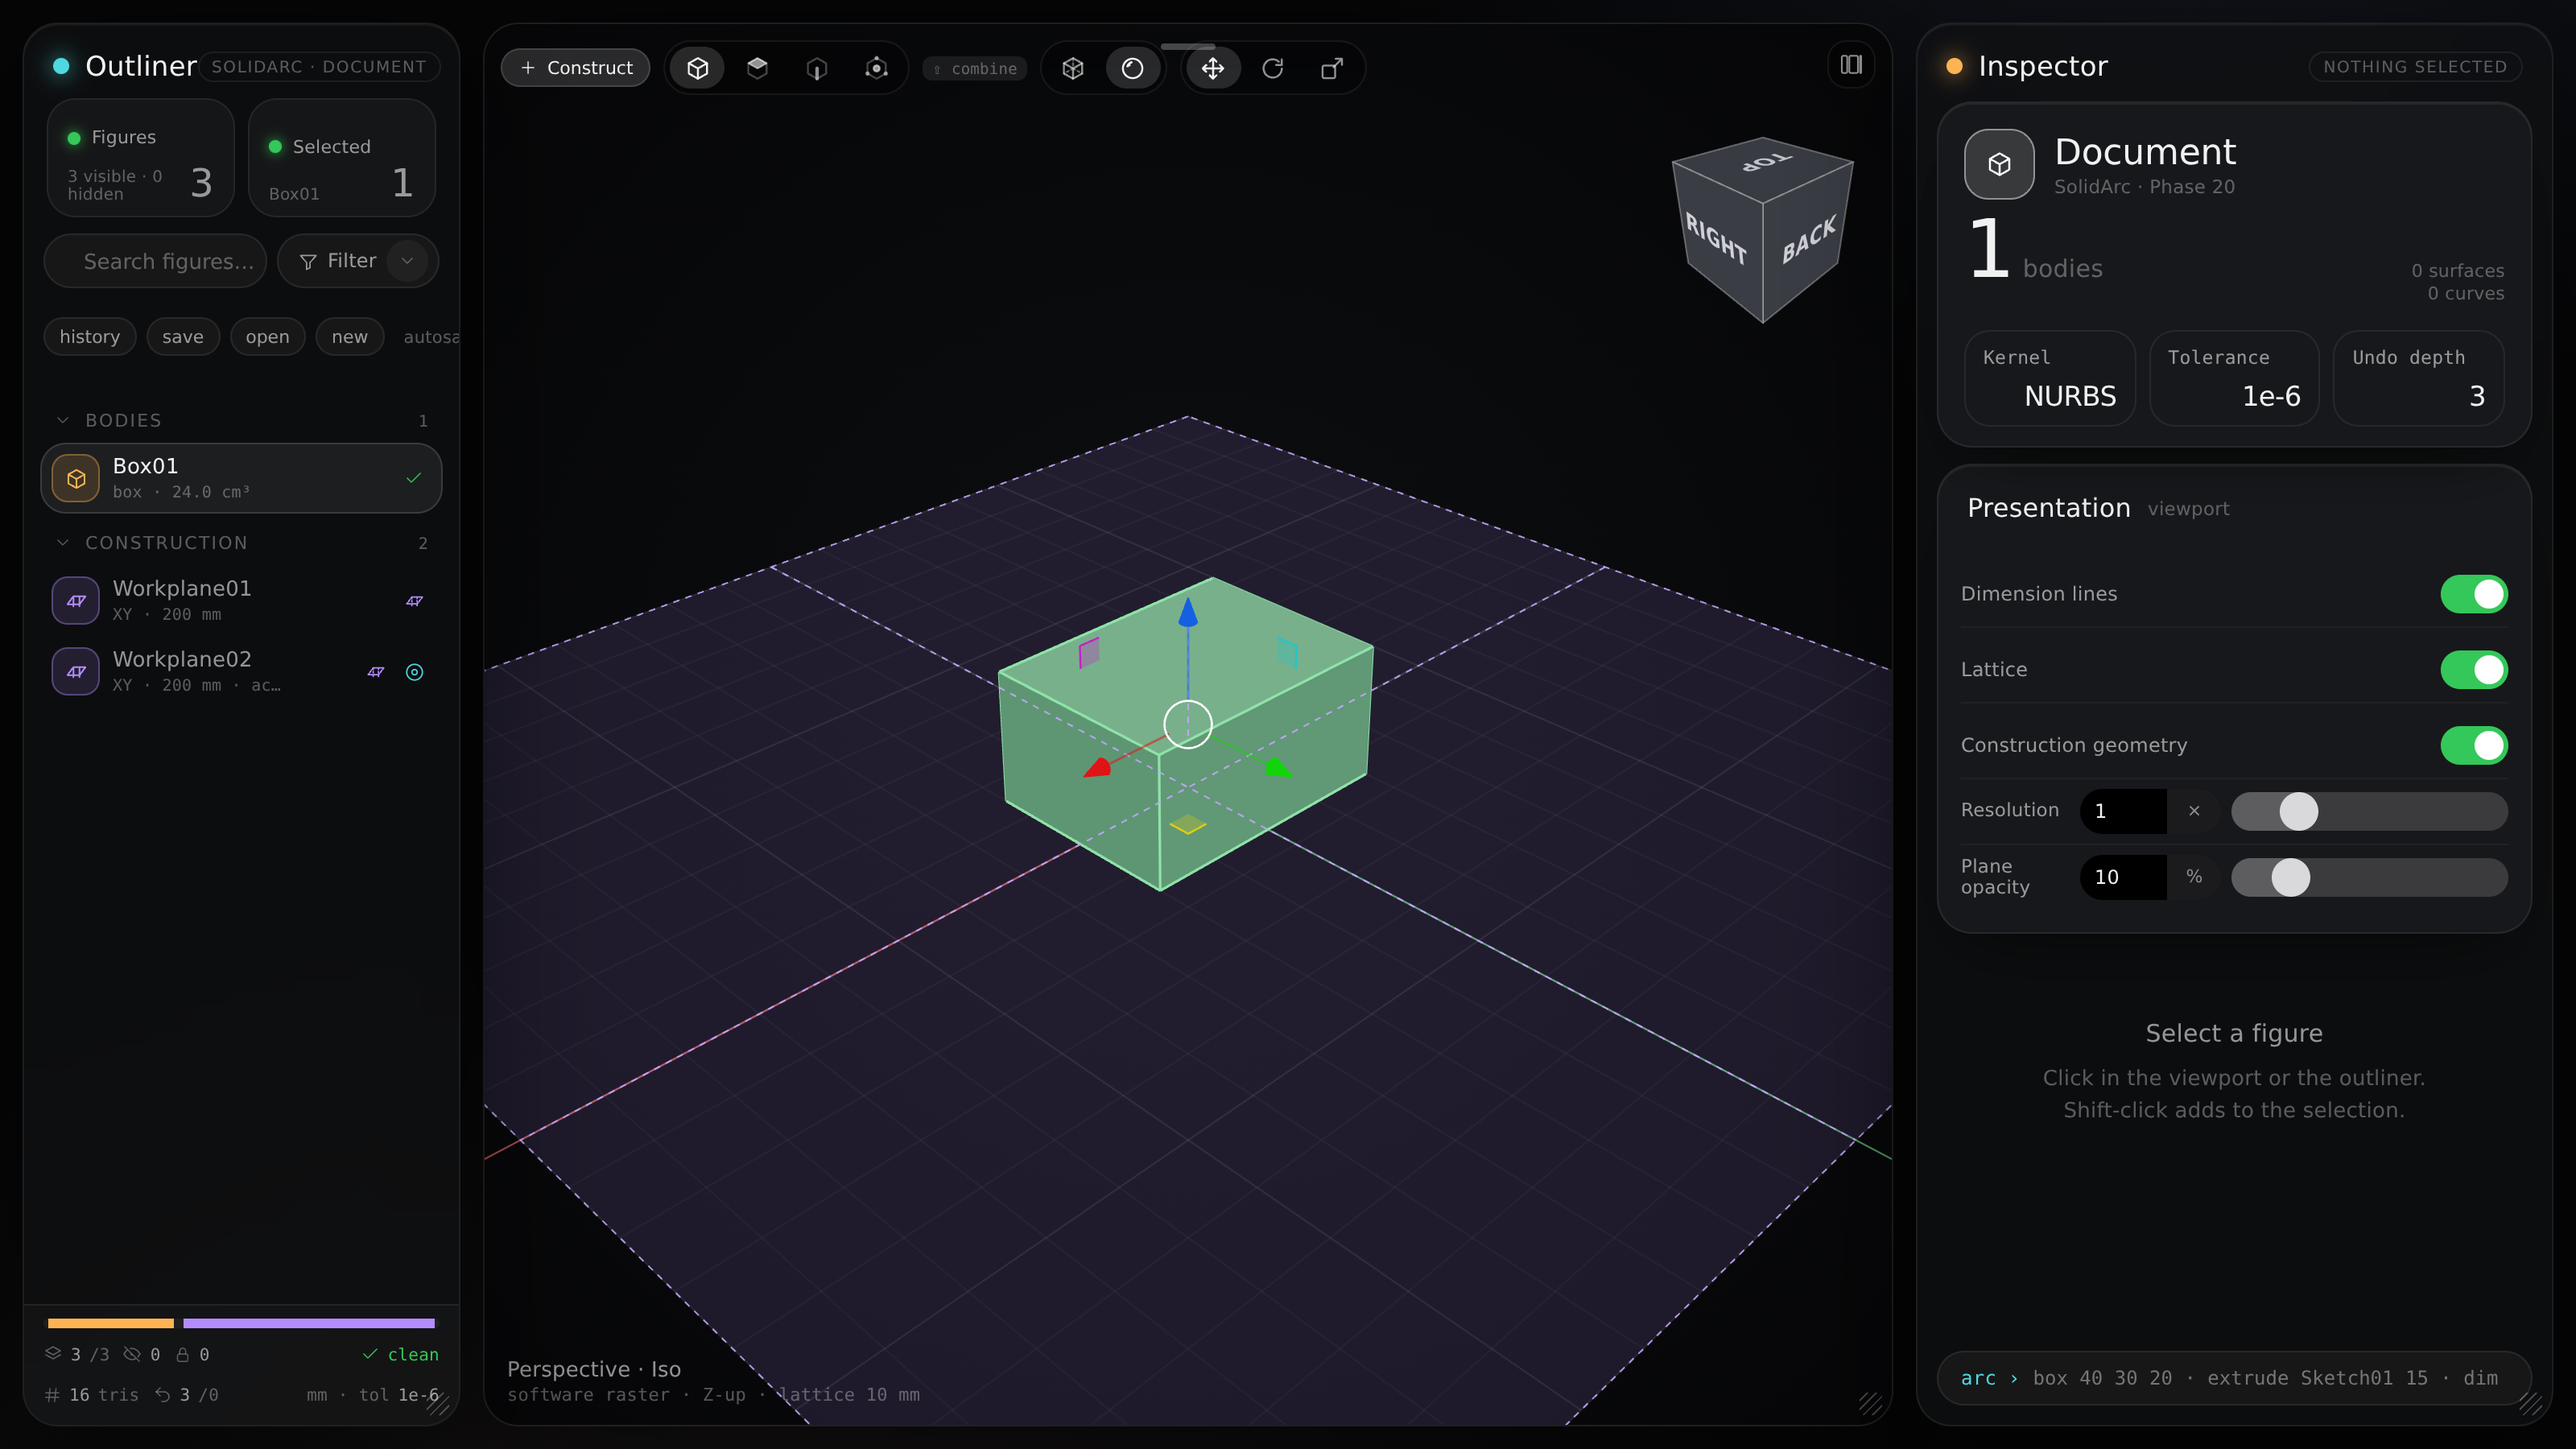
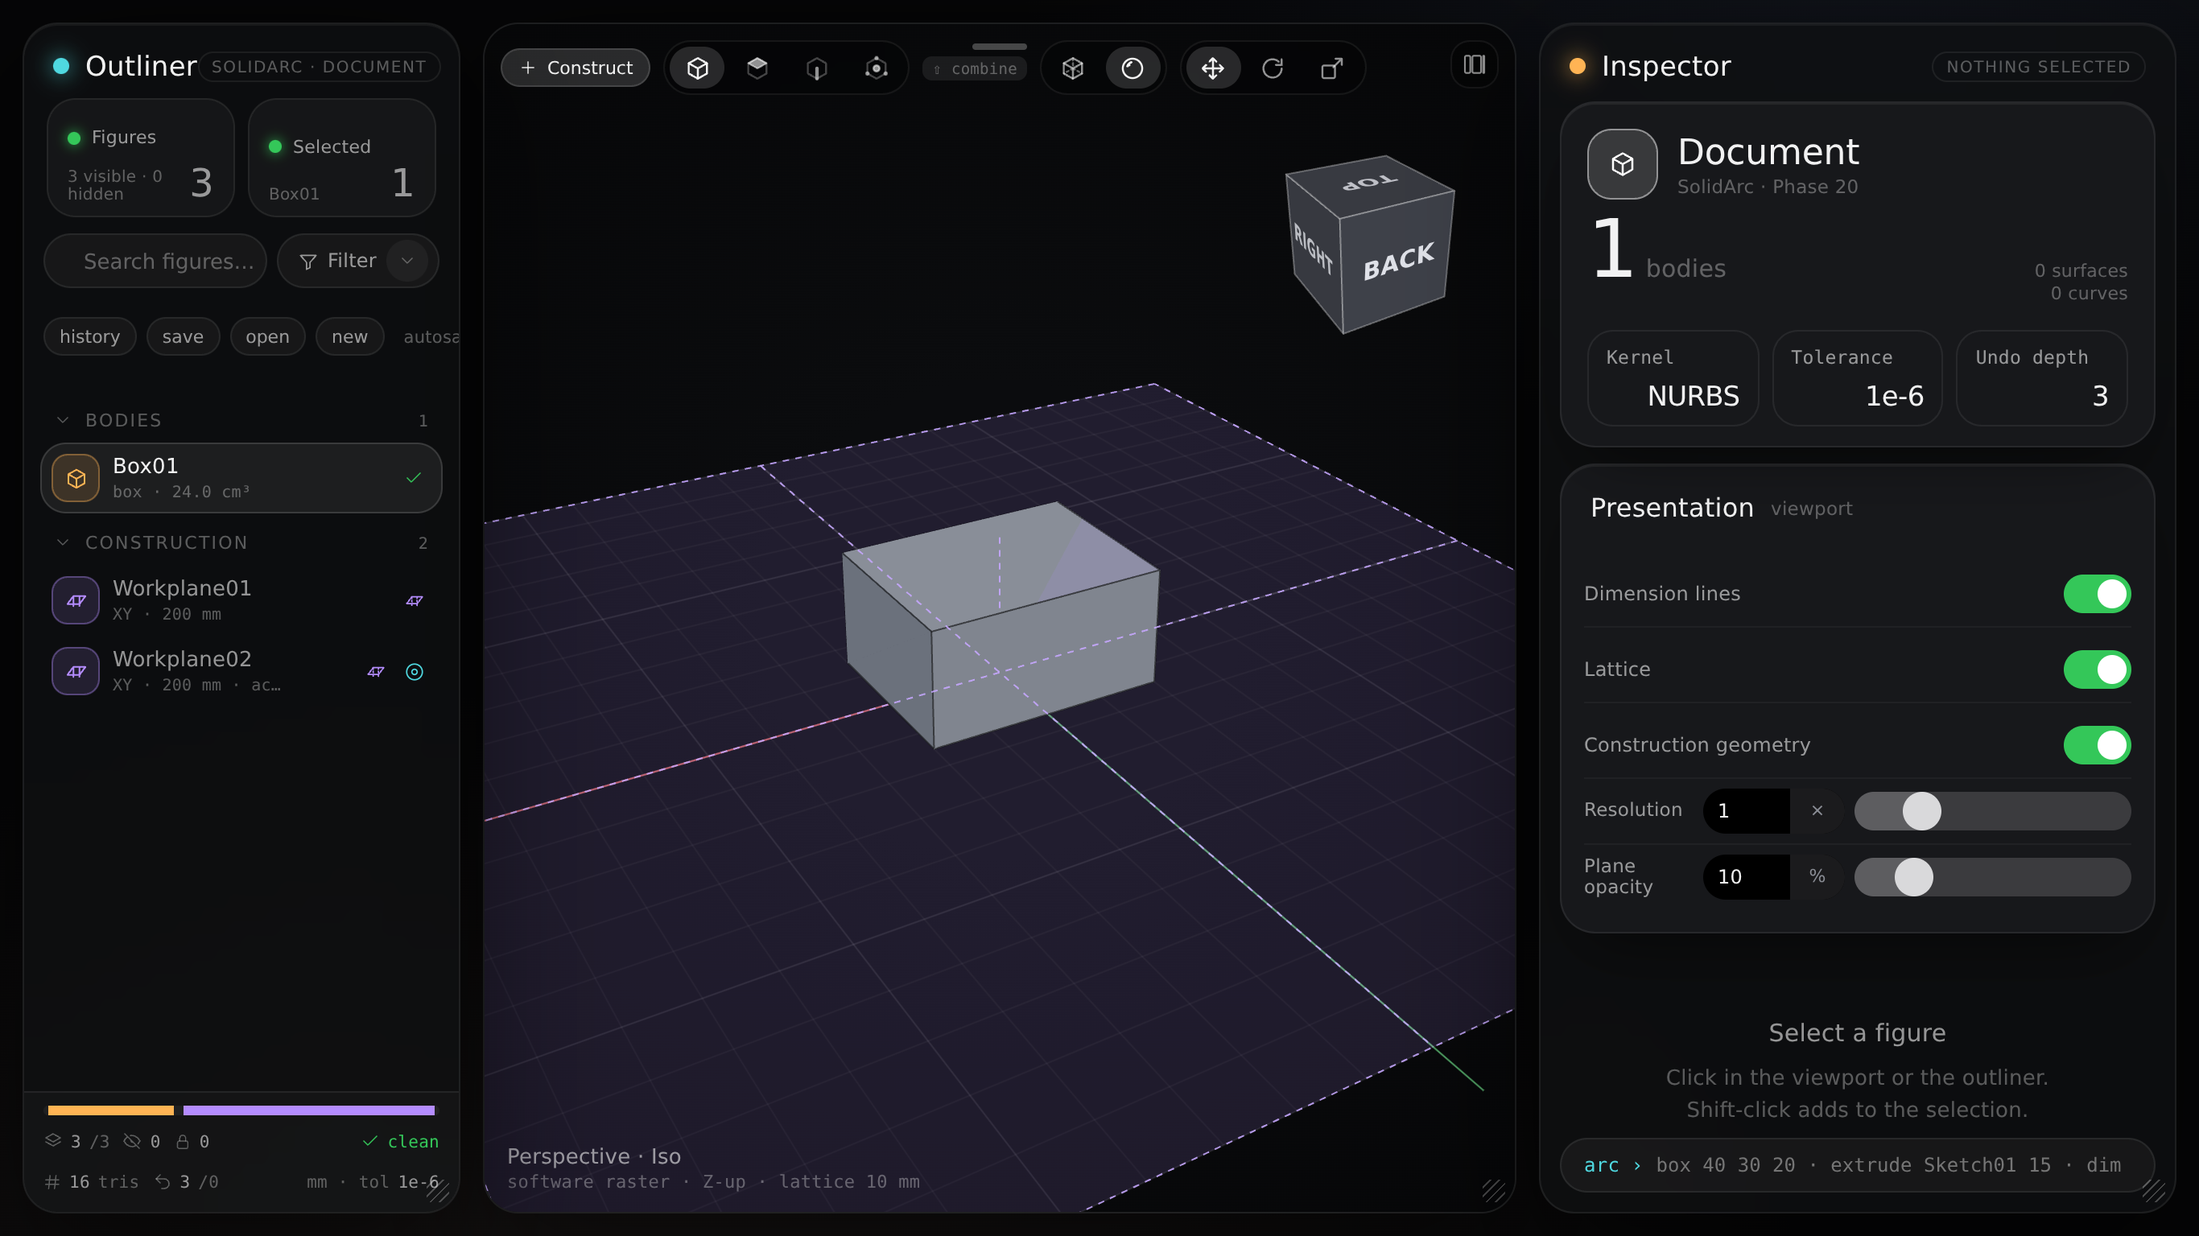
SolidArc: view cube perspective matched to the box in the viewport (same silhouette: top/side proportions)

diff --git a/SolidArcInspectorDesign/solidarc/index.html b/SolidArcInspectorDesign/solidarc/index.html
@@ -608,7 +608,7 @@ svg.i{width:16px;height:16px;fill:none;stroke:currentColor;stroke-width:1.6;stro
 @media (max-width:1500px){#axisHud{top:96px}#gzHud{top:140px}}
 
 /* ══ v12: view cube replaces the XYZ readout, persp pill and the view buttons ══ */
-#vcube{position:absolute;right:12px;top:52px;width:136px;height:136px;z-index:4;cursor:pointer;touch-action:none}
+#vcube{position:absolute;right:10px;top:50px;width:164px;height:164px;z-index:4;cursor:pointer;touch-action:none}
 #axisHud,#views{display:none!important}
 
 /* v13: shading segment as icons; view cube canvas slightly larger for the perspective silhouette */
@@ -2679,12 +2679,12 @@ renderOutliner();renderInspector();resize();
    Perspective cube that follows the viewport camera (orthographic when the viewport is ortho). Face labels are projected onto the faces.
    Click a face = standard view, edge = 2-axis view, corner = isometric view. Drag = orbit.  Z up, Front = -Y, Right = +X. */
 var vcubeName='iso';
-var VC={n:136,s:0,D:5.2,hover:null,anim:null,K:22,
+var VC={n:164,s:36,D:8,hover:null,anim:null,K:22,
  /* t1 x t2 = n on every face, so the label reads left-to-right and is never mirrored */
  faces:[['top',[0,0,1],[1,0,0],[0,1,0],'TOP'],['bottom',[0,0,-1],[-1,0,0],[0,1,0],'BOTTOM'],['front',[0,-1,0],[1,0,0],[0,0,1],'FRONT'],['back',[0,1,0],[-1,0,0],[0,0,1],'BACK'],['right',[1,0,0],[0,1,0],[0,0,1],'RIGHT'],['left',[-1,0,0],[0,-1,0],[0,0,1],'LEFT']]};
 var vcCv=document.getElementById('vcube'),vcG=vcCv.getContext('2d');
 function vcSize(){const d=Math.min(2,devicePixelRatio||1);vcCv.width=VC.n*d;vcCv.height=VC.n*d;VC.d=d;}
-vcSize();VC.s=(VC.n/2)/Math.tan(FOV/2*Math.PI/180)/VC.D;/* same field of view as the viewport camera */
+vcSize();/* strong perspective like the viewport grid: camera far enough that the cube reads like the box in the viewport (an object-sized thing, not the 200 mm grid) */
 function vcP(v,b){/* world -> cube canvas, true perspective */
  const x=dot(v,b.right),y=dot(v,b.up),z=dot(v,b.fwd);const dep=view.ortho?VC.D:VC.D+z;const k=VC.s*VC.D/Math.max(.3,dep);return [VC.n/2+x*k,VC.n/2-y*k];}
 function vcFaces(b){const eye=[-b.fwd[0],-b.fwd[1],-b.fwd[2]];const th=view.ortho?.02:1/VC.D+.02;
